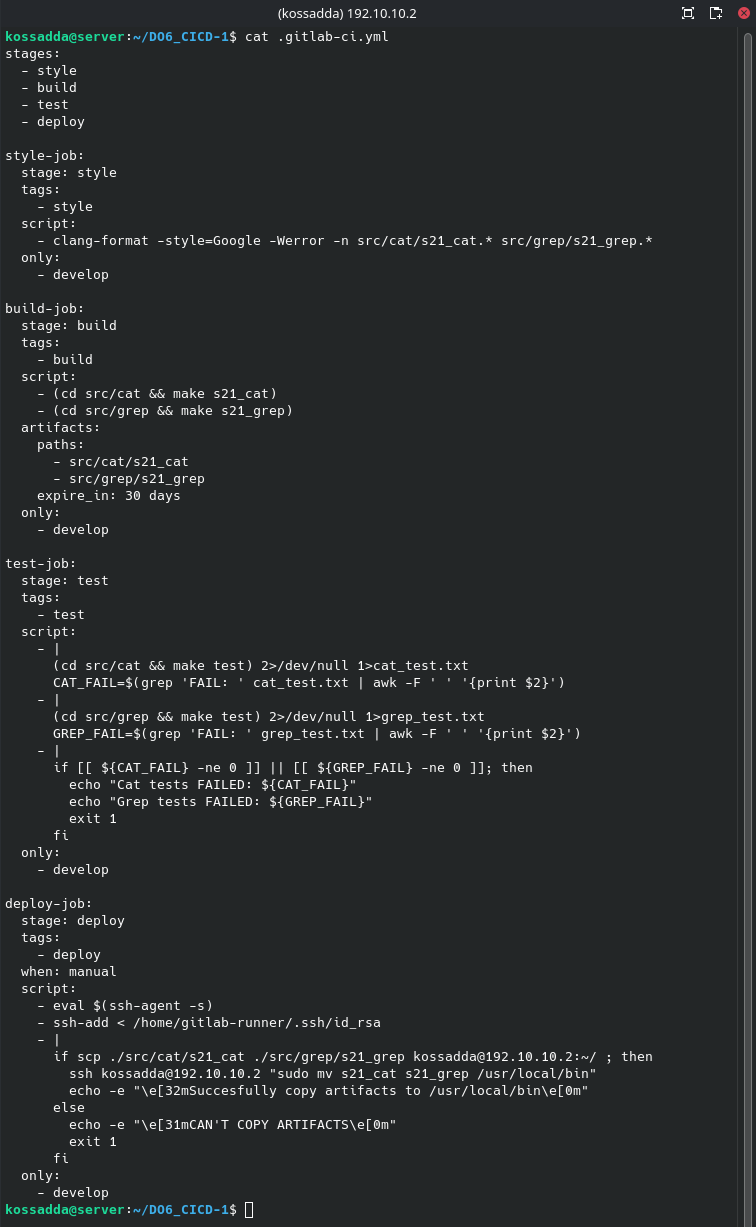
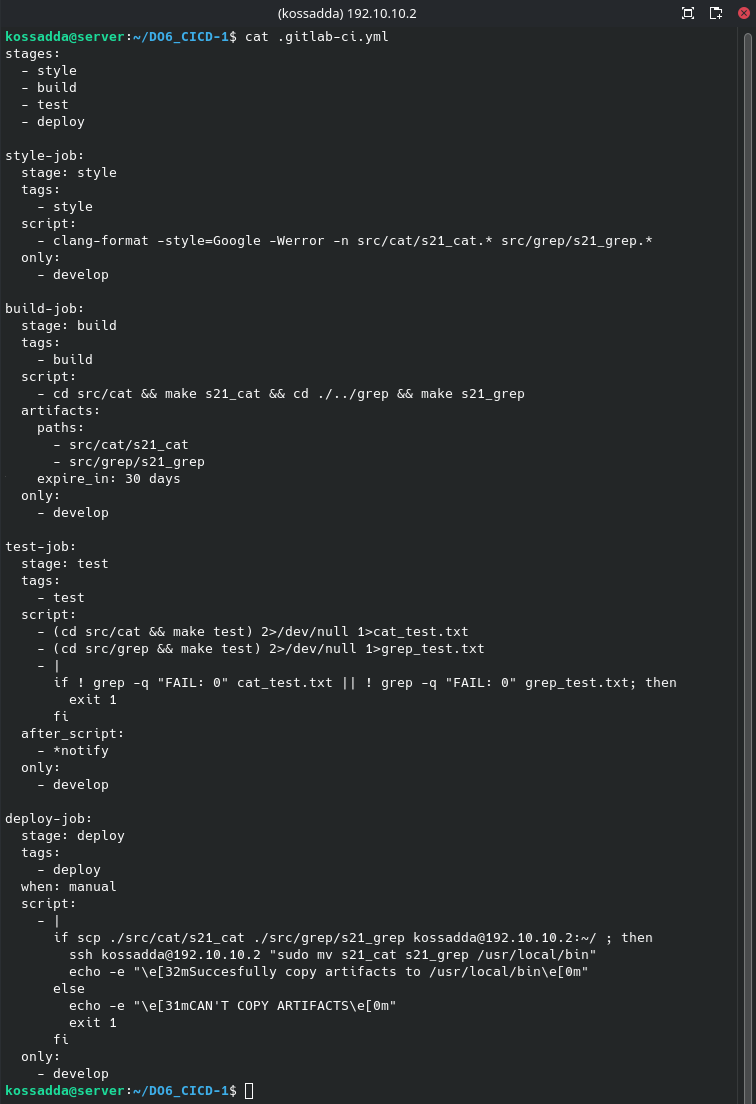
feat: 06 done

diff --git a/src/report.md b/src/report.md
@@ -30,7 +30,10 @@
   5.5. [Добавление этапа деплоя](#написать-этап-для-cd-который-«разворачивает»-проект-на-другой-виртуальной-машине) \
   5.6. [Настройка ssh-агента](#настройка-ssh-агента) \
   5.7. [Проверка этапа деплоя](#проверка-этапа-деплоя)
-6. [Дополнительно. Уведомления](#part-6-дополнительно-уведомления)
+6. [Дополнительно. Уведомления](#part-6-дополнительно-уведомления) \
+  6.1. [Создание бота и получение данных](#настроить-уведомления-о-успешномнеуспешном-выполнении-пайплайна-через-бота-с-именем-«kossadda-do6-cicd»-в-telegram) \
+  6.2. [Настройка бота](#настройка-бота) \
+  6.3. [Проверка работы бота](#проверка-работы-бота)
 
 <br>
 
@@ -349,4 +352,59 @@ sudo systemctl restart gitlab-runner.service
 
 > Разумеется есть четкое понимание, что если стадия `build` зафейлится, то до деплоя, конечно же, не дойдет. Но проверить работу ветвления все же стоило, ибо в следующий раз это может быть не копирование артефакта, а чего-либо другого
 
+<br>
+
+
+
+
 ## [Part 6. Дополнительно. Уведомления](#содержание)
+
+### Настроить уведомления о успешном/неуспешном выполнении пайплайна через бота с именем «kossadda DO6 CI/CD» в Telegram
+
+> Текст уведомления будет содержать информацию об успешности прохождения как этапа CI, так и этапа CD. <br>
+> В остальном текст уведомления может быть произвольным.
+
+- Найдем в телеграме через поиск `BotFather`
+
+![6.1](screenshots/39.png)
+
+- Запустим бота и напишем `/newbot`
+
+> В диалоге необходимо будет написать: <br>
+> - имя бота `kossadda DO6 CI/CD» в Telegram` <br>
+> - юзернейм для бота (имя должно быть уникальным и заканчиваться на `bot`)
+
+![6.2](screenshots/40.png)
+
+- В результате мы получили `API` бота. Теперь найдем бота `getmyid_bot` и напишем ему `/start` для получения нашего `ID`
+
+![6.3](screenshots/41.png)
+
+> В данном задании мы продолжим тенденцию "незасорения репозитория", поэтому опишем notify полностью внутри `gitlab-ci.yml`
+
+- Для того, чтобы не светить нашими API и ID, опишем все ключевые переменные для обращения к удаленному серверу (в этом случае это теперь бот) в конфигурационном файле `config.conf`, который мы создадим в корне раннеровской машины. Его содержимое будет следующим
+
+```sh
+vim ~/config.conf
+```
+![6.4](screenshots/42.png)
+
+### Настройка бота
+
+- Теперь перейдем непосредственно к этапам раннера и внесем некоторые коррективы
+
+> Через `.notify: &notify:` определим набор команд для уведомлений, которые будут использованы во всех этапах
+> - Подключаем переменные из `config.conf`
+> - Формируем сообщение боту, исходя из результата предыдущего job'а
+> - Отправляем сформированное сообщение боту с помощью curl и ssh
+> - У каждого стейджа в `after_scrict` указываем вызов вышеупомянутого набора команд
+
+![6.5](screenshots/43.png)
+
+### Проверка работы бота
+
+- Протестируем уведомления от всех успешных и каждого зафейленного пайплайна
+
+![6.4](screenshots/44.png)
+
+### [К содержанию](#содержание)
